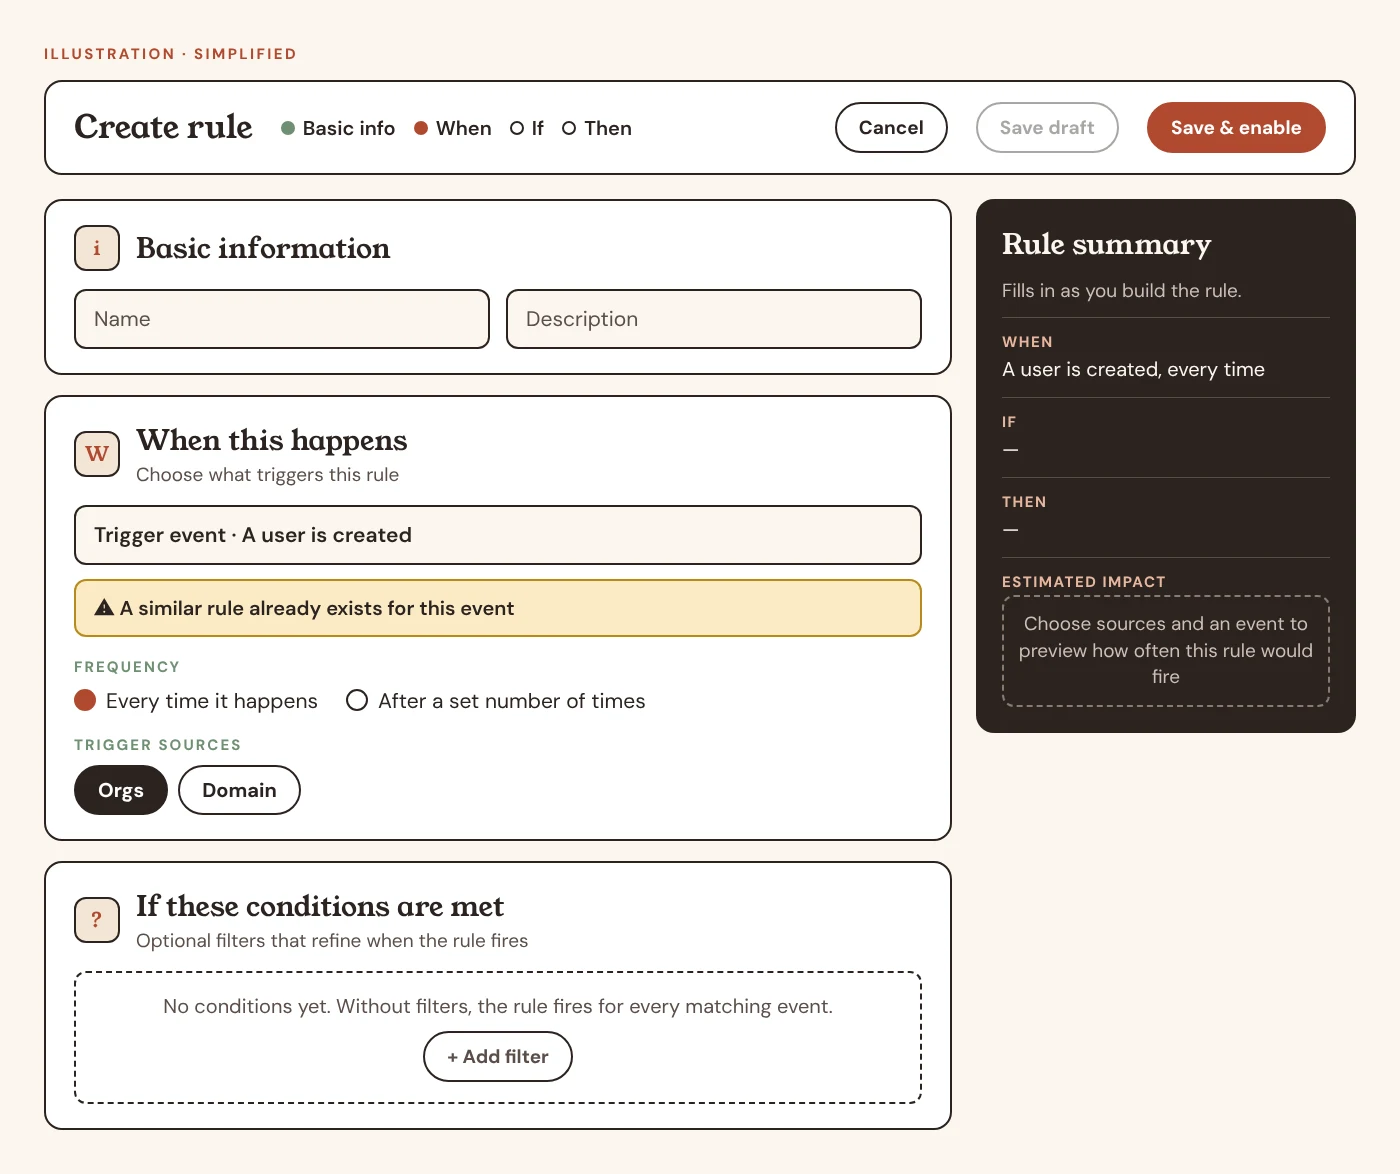
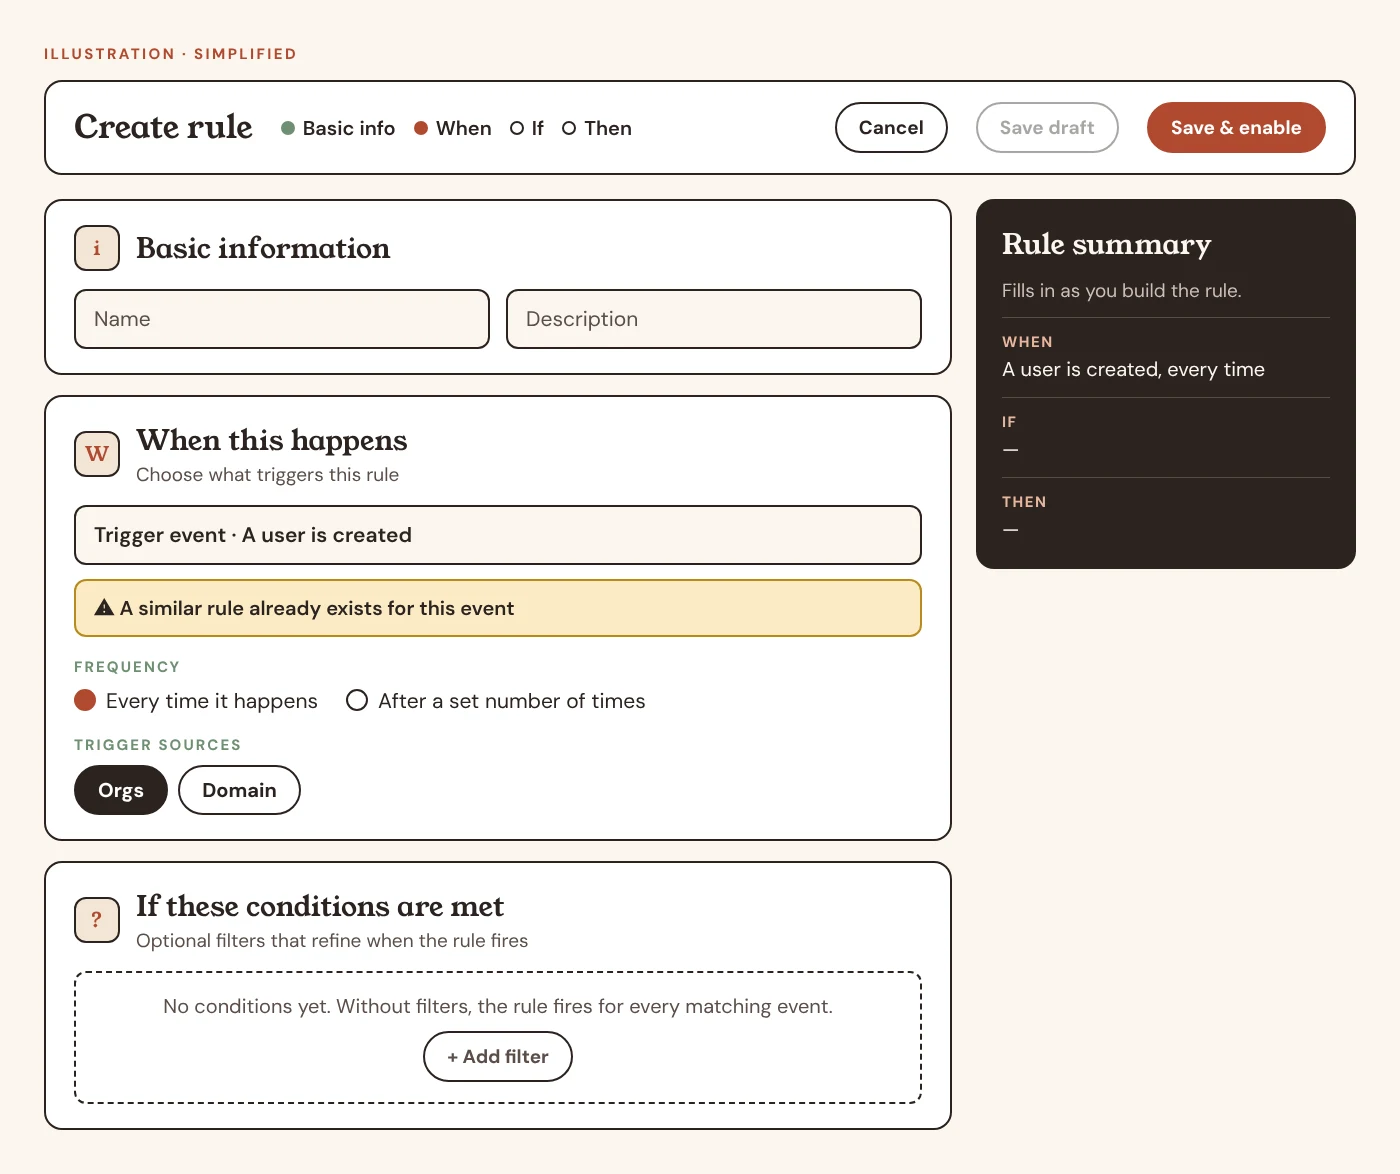
Publish admin console case study; drop unconfirmed impact-preview claim
Claude-Session: https://claude.ai/code/session_01GdRQkU6BAW29soLe75xDZn

Changed region(s): [[0.6757, 0.46, 0.9829, 0.644]]

diff --git a/src/content/caseStudies.ts b/src/content/caseStudies.ts
@@ -432,13 +432,13 @@ const textOnlyTemplate: CaseStudy = {
 export const adminConsole: CaseStudy = {
   ...textOnlyTemplate,
   slug: 'admin-console',
-  draft: true,
+  draft: false,
   title: 'A multi-module SaaS admin console',
   kicker: 'Professional work · Previous employer',
   tagline: 'Making a growing admin console modern, consistent and easier to use.',
   dek: 'A multi-module SaaS tool that gives administrators one place to manage their company’s workspace. Over about four years, with one other designer and the development team, I redesigned its patterns and built the component library that keeps every module consistent.',
   description:
-    'Text-only case study: designing and systematizing a multi-module SaaS admin console. Product details are kept anonymous.',
+    'Designing and systematizing a multi-module SaaS admin console: a component library, consistent containers and a redesigned rule builder. Product details are kept anonymous.',
   meta: {
     role: 'UX/UI designer, with one other designer and the development team',
     timeline: 'About four years',
@@ -525,13 +525,13 @@ export const adminConsole: CaseStudy = {
         problem:
           'Creating a rule involves trigger logic, a Sources panel that maps events to source types, and condition blocks with AND/OR patterns. The original stepper-style wizard made people move back and forth to check how their choices fit together. A second problem was conceptual: helping users tell apart two kinds of automation, Policies (scheduled, time-driven) and the Rules Engine (real-time, event-driven), on the Automation landing page.',
         approach:
-          'I redesigned it as a single page with three sections, When, If and Then, and a summary card that keeps everything set so far visible in one place. The page also warns when a similar rule already exists and previews the estimated impact before you save. [Confirm those two details.] Steppers suit long, linear data entry; a rule is a set of interrelated pieces, and people need to see how they connect.',
+          'I redesigned it as a single page with three sections, When, If and Then, and a summary card that keeps everything set so far visible in one place. The page also warns you when a similar rule already exists for the same event. Steppers suit long, linear data entry; a rule is a set of interrelated pieces, and people need to see how they connect.',
         outcome:
           'Rules read the way people think about them: if this happens, under these conditions, do this. Users see the whole rule without navigating between steps.',
         shot: {
           label: 'Illustration: the Create rule page',
           src: '/gpanel-create-rule.webp',
-          alt: 'A simplified illustration of the Create rule page. Steps along the top read Basic info, When, If and Then. Three stacked sections follow: basic information, When this happens with a trigger event, a warning about a similar rule, frequency and trigger sources, and If these conditions are met, which is empty. A dark Rule summary card on the right fills in as the rule is built and shows an estimated impact preview.',
+          alt: 'A simplified illustration of the Create rule page. Steps along the top read Basic info, When, If and Then. Three stacked sections follow: basic information, When this happens with a trigger event, a warning about a similar rule, frequency and trigger sources, and If these conditions are met, which is empty. A dark Rule summary card on the right fills in as the rule is built.',
           caption: 'The Create rule page, redrawn and simplified: three sections on one page, with the summary always beside them. Not the real interface.',
           wide: true,
           width: 1400,
@@ -568,7 +568,7 @@ export const adminConsole: CaseStudy = {
       { title: 'Reusable pieces', text: 'New screens built from existing patterns, even as new APIs and features arrived' },
     ],
     honest:
-      'If I did it again, I’d build the component library much earlier, before the patterns had a chance to drift. Having worked on both the development and design sides, I now see a shared library as the foundation of a design system rather than something to tidy up afterward.',
+      'I don’t have measured results to share; the gains above are what the team observed. If I did it again, I’d build the component library much earlier, before the patterns had a chance to drift. Having worked on both the development and design sides, I now see a shared library as the foundation of a design system rather than something to tidy up afterward.',
   },
   next: { title: 'Back to selected work', to: '/#work' },
 }
